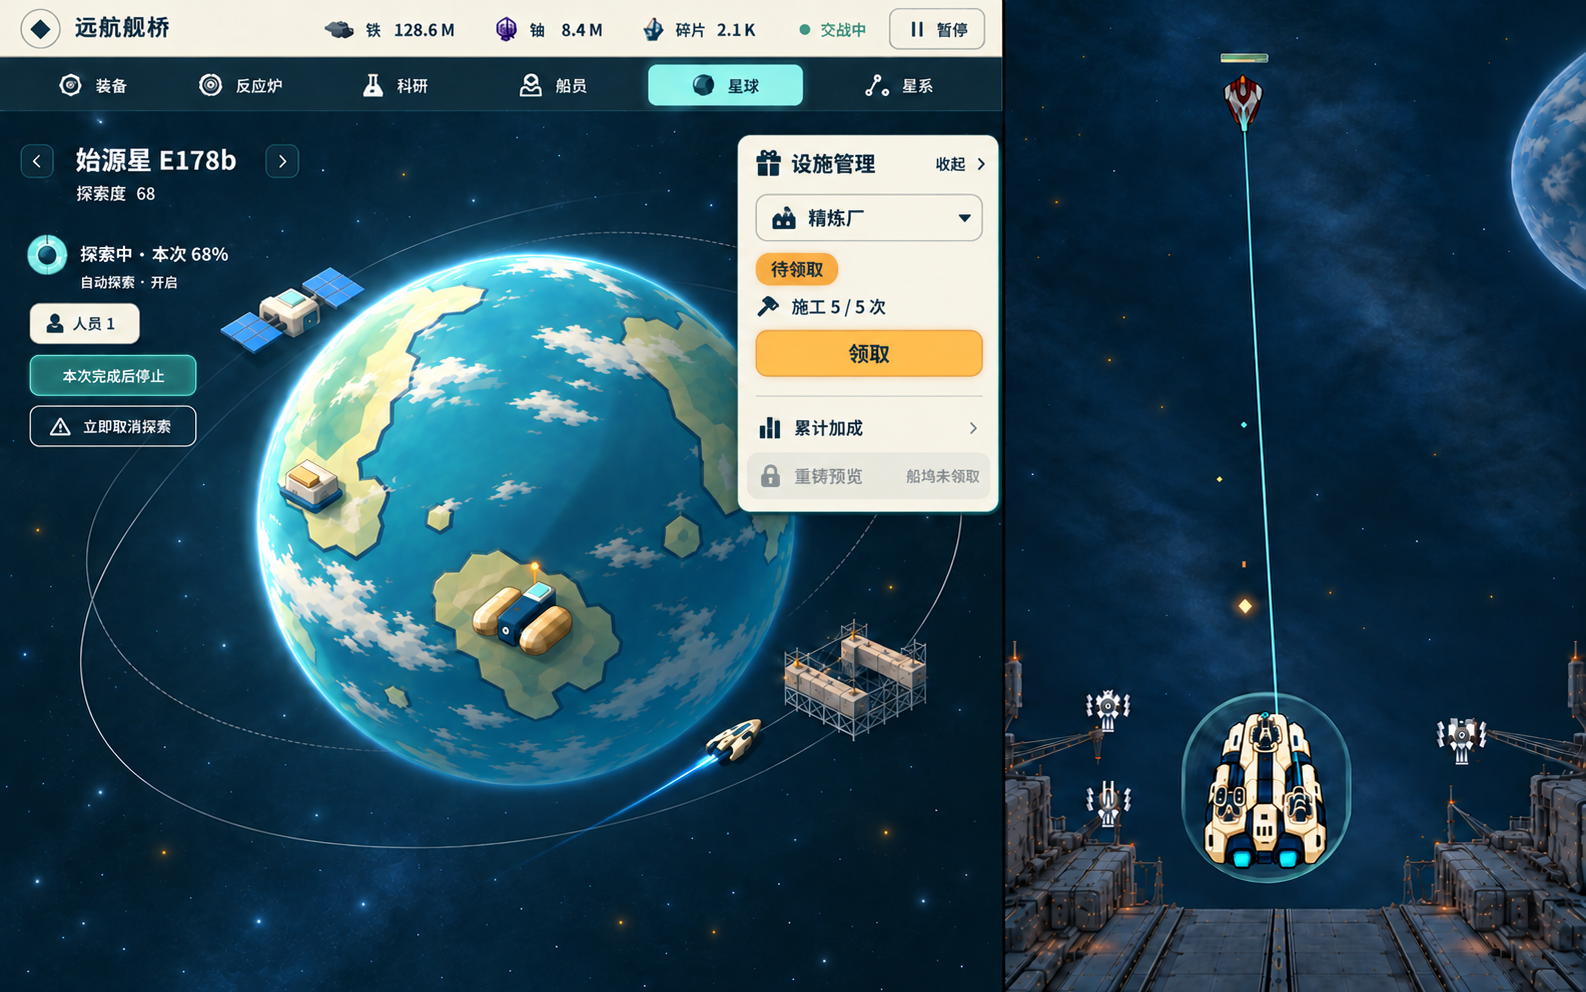
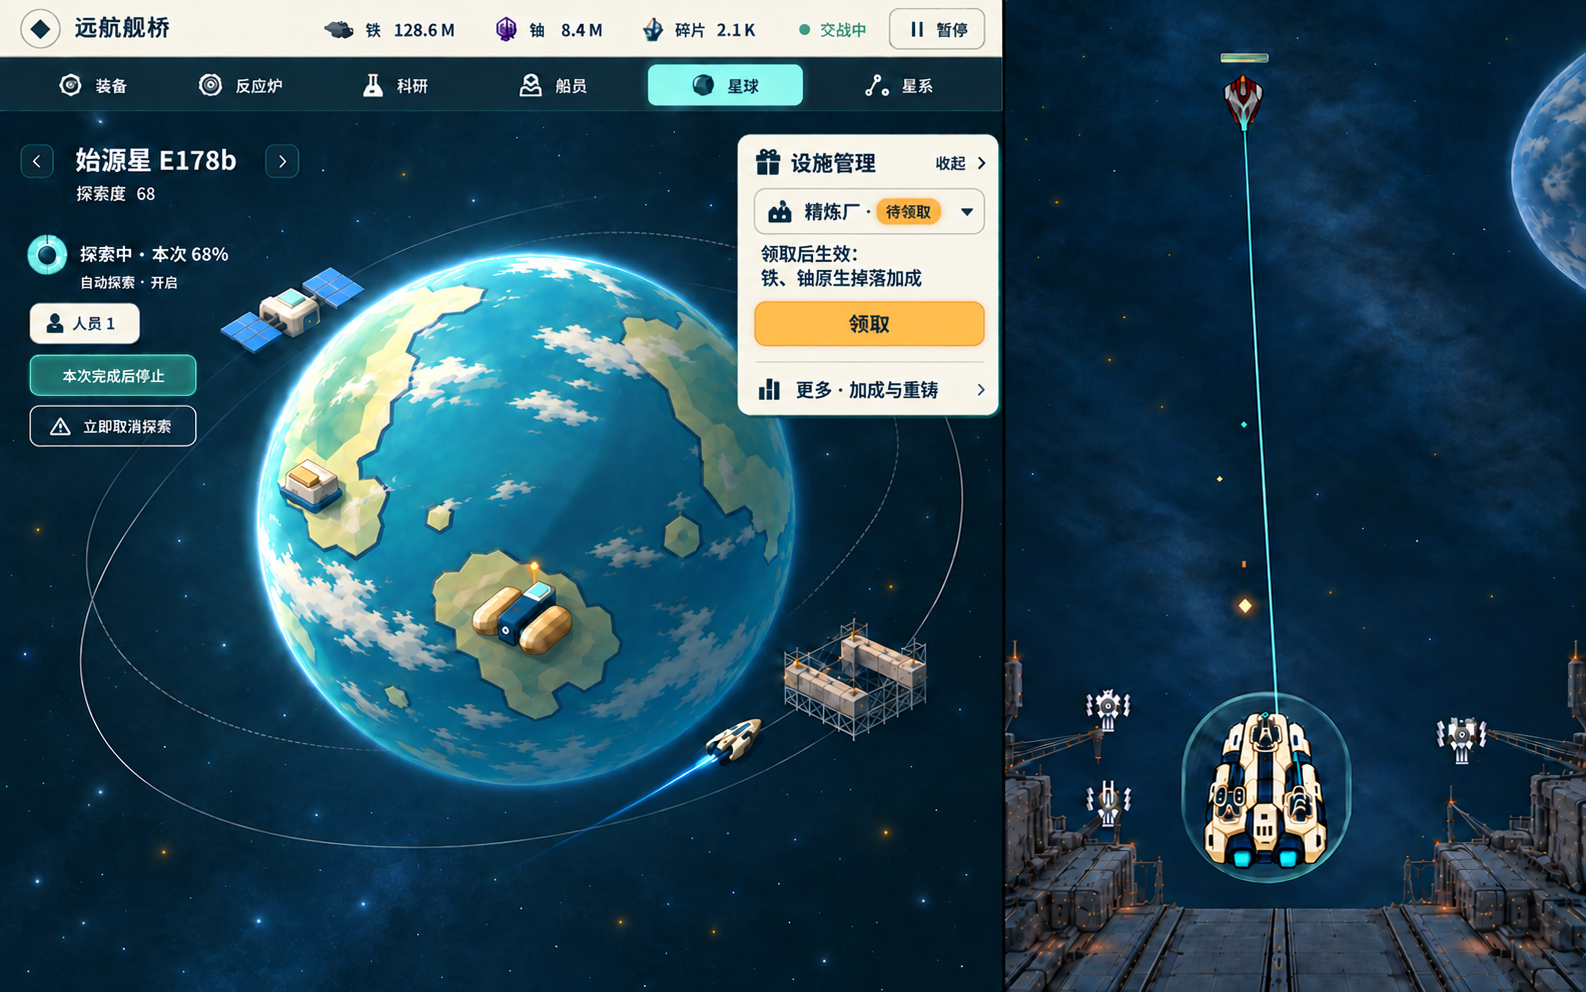
design: simplify refinery claim drawer while preserving planet watch view

diff --git a/space-battleship/docs/ui-redesign-plan/planet-watch-management-v4/review-notes.md b/space-battleship/docs/ui-redesign-plan/planet-watch-management-v4/review-notes.md
@@ -10,16 +10,16 @@
 - [03 §5](../../game-design/03-progression.md#5-星球探索与建筑)及[09af963c接口候选](https://github.com/rlmclmc2-boop/space_idle/blob/09af963c/space-battleship/src/systems/planet.gd#L228)保持玩法/事实边界；facility_facts/automatic候选已实现、限定审通过、未合main。没有新位置业务字段、待办账本、人员/施工/收益规则。
 - [layout-tradeoffs](layout-tradeoffs.md)在生成前先写收纳取舍。最初底栏想法已被用户关于两侧余量的新指示覆盖，归档的当前提案不再切底栏。其面积/净空数值是目标，不是生成结果。
 
-image_gen.imagegen两次成功生成：默认观看态，再以默认原图生成同状态窄抽屉。没有额外图像压缩/编辑或重复生成；提示词/输入路径在generation-requests.json，原图SHA-256及实际尺寸在manifest.json。
+P4原先两次成功生成默认观看态及展开态；默认观看方向获根线程/独审认可后，本次只调用一次image_gen集中精简抽屉。默认原图未变，旧抽屉在drafts固定为本次输入。没有额外图像压缩/编辑；提示词/输入路径在generation-requests.json，原图SHA-256及实际尺寸在manifest.json。
 
 ## 图像实际自查
 
 - 默认图下方已无白色控制区、设施四行表、禁用重铸块或空占位，观看区延伸至模块下缘。左侧探索组和右上管理入口独立稳定，场景建筑无点击标记、追踪标签或按钮。
-- 右上待领徽记“1待领取”保留，展开后只显示精炼厂选择器、待领/施工5/5、领取、累计加成与禁用重铸/原因；没有重新常驻四设施信息。船坞施工/人员等在选择相应设施后看，本图不把全部细项同时铺开。
+- 默认右上“1待领取”保留。精简展开图将设施名/待领态合并，优先显示“领取后生效：铁、铀原生掉落加成”和领取；去掉冗余5/5次数，累计加成/禁用重铸收进“更多”小入口，相关条件在进一步打开时再显示。没有重新常驻四设施信息。
 - 两图的世界/探索/建筑状态相同；抽屉打开不是领取成功，也不隐式暂停/推进。主图中精炼厂仍为未领取状态，未显示已生效倍率。
-- 抽屉为右上局部管理，不是全高侧栏或底部大表；但实际约260×378原生像素，大于预想预算，且覆盖少量球体右侧/后轨道。独审需判断是否继续缩短详情或调整锚点，不能把“按需”当作可任意遮主体的许可。
+- 新抽屉实际约260×281原生像素，旧版约260×378；在保留可读字号/换行层级的情况下缩短约97原生像素，约为旧高度的四分之一。它仍临时覆盖少量球缘/后轨道，允许适度遮盖而非声称完全不挡；未改变场景或扩大控制区方向。
 - 默认静帧中的轨道弧靠近左侧取消控件；完整站体/探索机运动包络与抵达通道未运行验证。当前默认控制位置尚不能记净空通过，后续应按完整包络退让，不能因建筑不点击就假定遮交通无妨。
-- 主图球体大小/分区仍有生成偏差；两态之间存在细节像素漂移，不能称精确裁图复现。目标1440×900/808只是待确认工作条件；实际分界映射约910，精确布局未通过。
+- 默认图与0cf4be88原始字节相同；其球体大小/分区偏差不因方向认可而成为已通过像素规范。两态之间仍可能有生成细节漂移，不能称精确裁图复现。目标1440×900/808只是待确认工作条件；实际分界映射约910，精确布局未通过。808下须保留字号重排侧边控件、抽屉锚点/宽度及文本换行，不以整体缩图替代。
 - 已定的工厂地表/空间站轨道、建筑观看/操作独立保留；工坊地表/船坞近轨仍是本轮建议。地表贴附、云层差速、光照与遮挡最终仍须动态实现核验，合成图不能整张当运行背景。
 
 无UI、业务、配置、资产或共用13改动，无HTML/SVG样稿、B实现、性能基准、独立复测或main合并。检查范围为文档/JSON/路径、PNG尺寸及字节哈希；不是游戏/交互验收。图交原独审后再供用户确认。

diff --git a/space-battleship/docs/ui-redesign-plan/planet-watch-management-v4/README.md b/space-battleship/docs/ui-redesign-plan/planet-watch-management-v4/README.md
@@ -1,6 +1,6 @@
 # 星球图稿 P4：默认观看与按需抽屉
 
-[唯一入口](../../game-design/README.md) → [M7候选规范](../../game-design/art/modules/planet.md)。用户要求优先利用圆形星球两侧余量，设施低频管理用抽屉；P3常驻大底部控制区不再沿用。**本轮图像待原独审和用户确认**，不实施UI或合main。
+[唯一入口](../../game-design/README.md) → [M7候选规范](../../game-design/art/modules/planet.md)。用户要求优先利用圆形星球两侧余量，设施低频管理用抽屉；P3常驻大底部控制区不再沿用。**默认观看方向经根线程/独审认可，原图保留不动；本次只精简抽屉，待复核及用户确认**，不实施UI或合main。
 
 [默认观看态原图](default-watch.png) · [抽屉展开态原图](facility-drawer.png) · [生成前比例/取舍](layout-tradeoffs.md) · [来源/自查](review-notes.md) · [原始请求](generation-requests.json) · [尺寸/哈希](manifest.json)
 
@@ -8,8 +8,8 @@
 
 ![抽屉展开态](facility-drawer.png)
 
-默认态移除整片底部控制台和常驻设施表：左侧圆外余量放当前探索、人员、自动及停止/取消，右上只留“设施管理／1待领取”。下缘归还轨道空间，不给收起的管理区留空。展开态只显示当前精炼厂的待领详情及领取，累计加成/重铸收进抽屉，不再列四设施大表。代价是设施管理先展开一次；待领入口仍可发现。
+默认态移除整片底部控制台和常驻设施表：左侧圆外余量放当前探索、人员、自动及停止/取消，右上只留“设施管理／1待领取”。下缘归还轨道空间，不给收起的管理区留空。精简抽屉将“精炼厂·待领取”合并，突出“领取后生效：铁、铀原生掉落加成”和领取按钮；累计加成/重铸收进低权重“更多”入口，去掉常驻禁用块及冗余5/5次数。管理先展开一次，待领入口仍可发现。
 
 两图是同一示例状态的开合设计：D68、本次68%、探索者1人、自动开启；空间站/工坊built、精炼厂ready且施工5/5、船坞38/180和额外人员1/1。未执行领取或时间推进。建筑继续纯观看，精炼厂贴地、空间站独立轨道；工坊地表及船坞近轨仍是建议，未由用户选定。
 
-两次image_gen输出均已实际查看，PNG原始字节归档，**没有额外压缩、缩放、裁切或拼接**。两图均1586×992，实际模块分界约x1002，映射至1440宽约910px，仍未达到808目标；抽屉实际约260×378原生像素（映射约236×343），大于生成前拟定的210–230×240–280预算。原图如实交审，不宣称精确比例、运动净空或V0/V7通过。全轨道/抵达包络尚无运行核验，不能从静帧断言控件永不遮交通。
+P4累计三次image_gen输出均已实际查看，本次仅新增一次抽屉精简。默认图SHA-256保持95bc6e14…，与0cf4be88逐字节一致；旧展开图在drafts留作本次生成输入。PNG原始字节归档，**没有额外压缩、缩放、裁切或拼接**。当前两图均1586×992，实际模块分界约x1002，映射至1440宽约910px，仍未达到808目标；新抽屉约260×281原生像素（映射约236×255），较旧版约260×378明显缩短。临时展开允许适度覆盖球缘/后轨道，不声称完全无遮挡。目标808宽下需保留字号重排控件/换行及锚点，不能整体压缩此原图充当适配。原图不证明精确比例、运动净空或V0/V7通过。

diff --git a/space-battleship/docs/ui-redesign-plan/planet-watch-management-v4/layout-tradeoffs.md b/space-battleship/docs/ui-redesign-plan/planet-watch-management-v4/layout-tradeoffs.md
@@ -38,7 +38,9 @@ P3下方常驻设施表占约三成高度，四设施细项及右侧空区长期
 ## 两张同状态图
 
 1. **默认观看态：** 场景铺至下缘，左上圆外余量为窄探索仪表组；右上只有设施管理及1待领取提示。无底部整条控制台、常驻设施大表、重铸占位。建筑纯观看，地表/轨道分工保持。
-2. **抽屉展开态：** 同一世界/任务/摄像机状态，右上入口就地展开为窄抽屉，左侧探索仪表组不动。标题/收起、单个设施选择器，示例选中精炼厂，待领/施工5/5次与领取按钮；累计加成、重铸预览是紧凑按需入口。不是再列四行全设施，也不在右侧摆大空区。
+2. **抽屉展开态：** 同一世界/任务/摄像机状态，右上入口就地展开为窄抽屉，左侧探索仪表组不动。标题/收起、单行“精炼厂·待领取”选择器，简短领取后作用与领取按钮；累计加成/重铸收进“更多”入口，不常驻冗余5/5次数或禁用块。不是再列四行全设施，也不在右侧摆大空区。
+
+默认观看方向获认可后，本次只集中精简抽屉，不重新设计默认图。按03 §5，必要作用可定性写为“领取后：铁、铀原生掉落加成”，不假造预计倍率/收入。目标808宽时保留既有文字层级，按内容重排：选择器把设施名与待领态合成一行，作用标题/对象分两行，主领取独占一行，低频入口另列小行；不把整个界面或全部文字等比缩小。临时打开允许适度覆盖球缘/后轨道，收起即归还，不宣称所有时刻都无遮挡。
 
 同一排版样例为D68、探索者1人、自动开启、本次68%；空间站/工坊built，精炼厂ready，船坞38/180且额外人员1/1。两张图只比较前端开合，不发生推进/领取，不冒称真实操作证据。P3三时刻图只作运动关系过程参照，其大控制区布局已被用户否定，不再继承。
 
